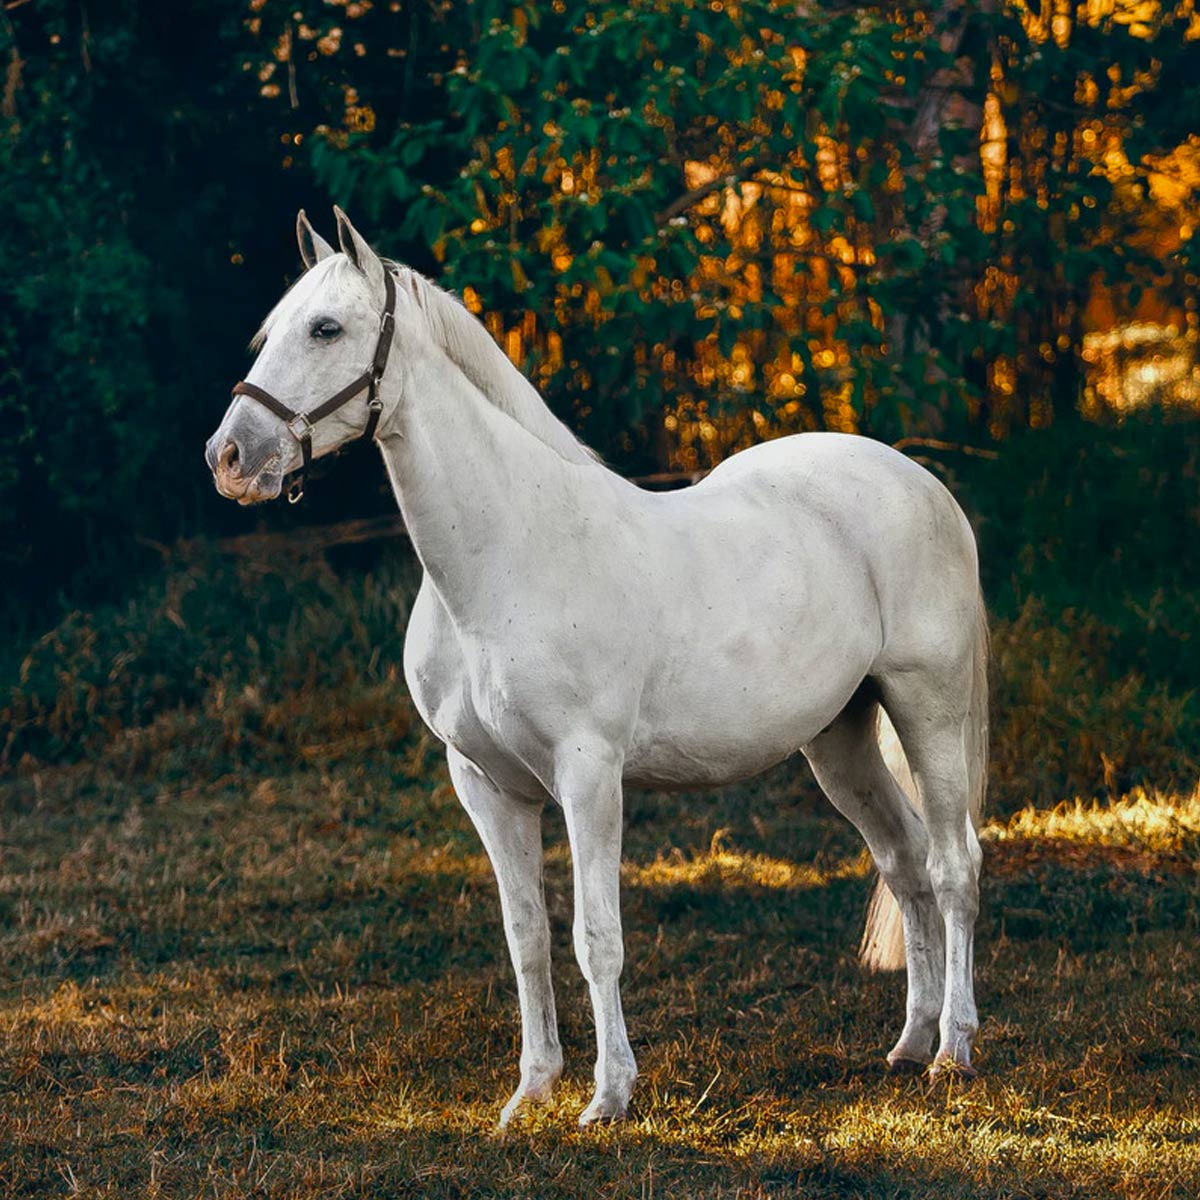
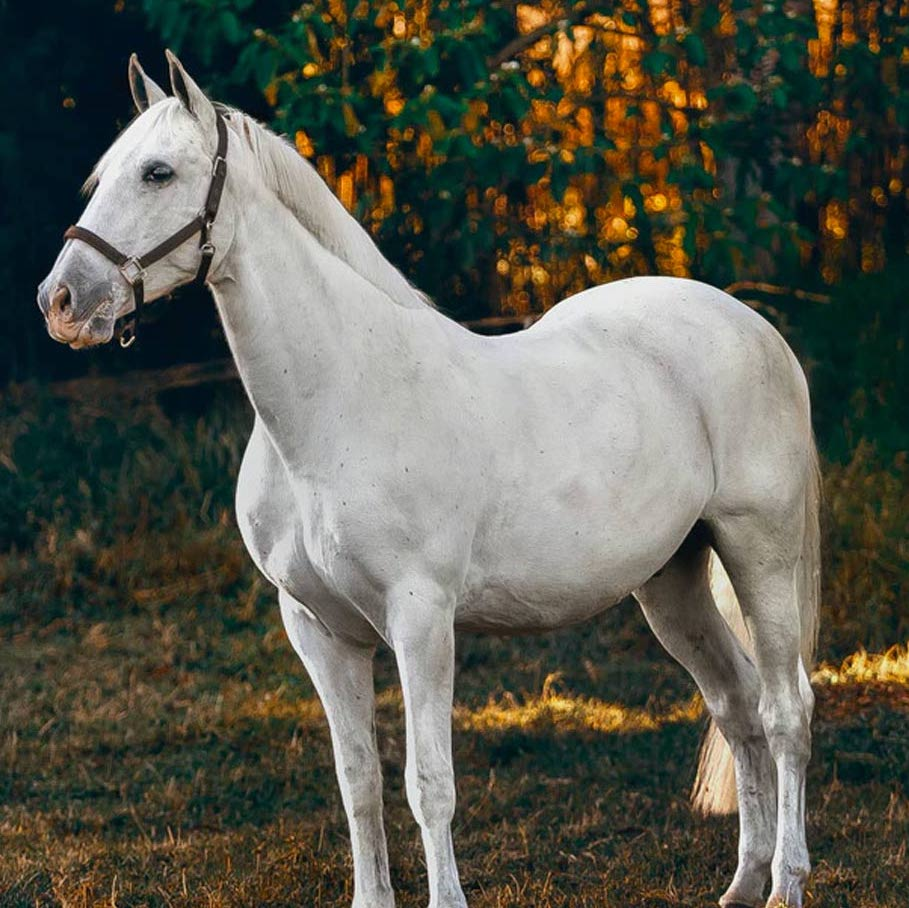
cropped img to size

diff --git a/christy-zoo/animals/deer.html b/christy-zoo/animals/deer.html
@@ -7,9 +7,7 @@
   <h1>Deer</h1>
   <img src="../../img/deer.jpg" alt="deer">
   <p>
-    The polar bear is a hypercarnivorous bear whose native range lies largely within the Arctic Circle, 
-    encompassing the Arctic Ocean, its surrounding seas and surrounding land masses. 
-    It is the largest extant bear species, as well as the largest extant land carnivore.
-  </p>
+    A male deer is called a buck while a female deer is called a doe. To tell them apart Buck have antler whereas does don't. 
+  </p> 
   <div><a href="../christy-zoo.html">back</a></div>
 </body>

diff --git a/css/headerbar.css b/css/headerbar.css
@@ -1,0 +1,5 @@
+.headerBar{
+    width: 50%;
+
+
+}
